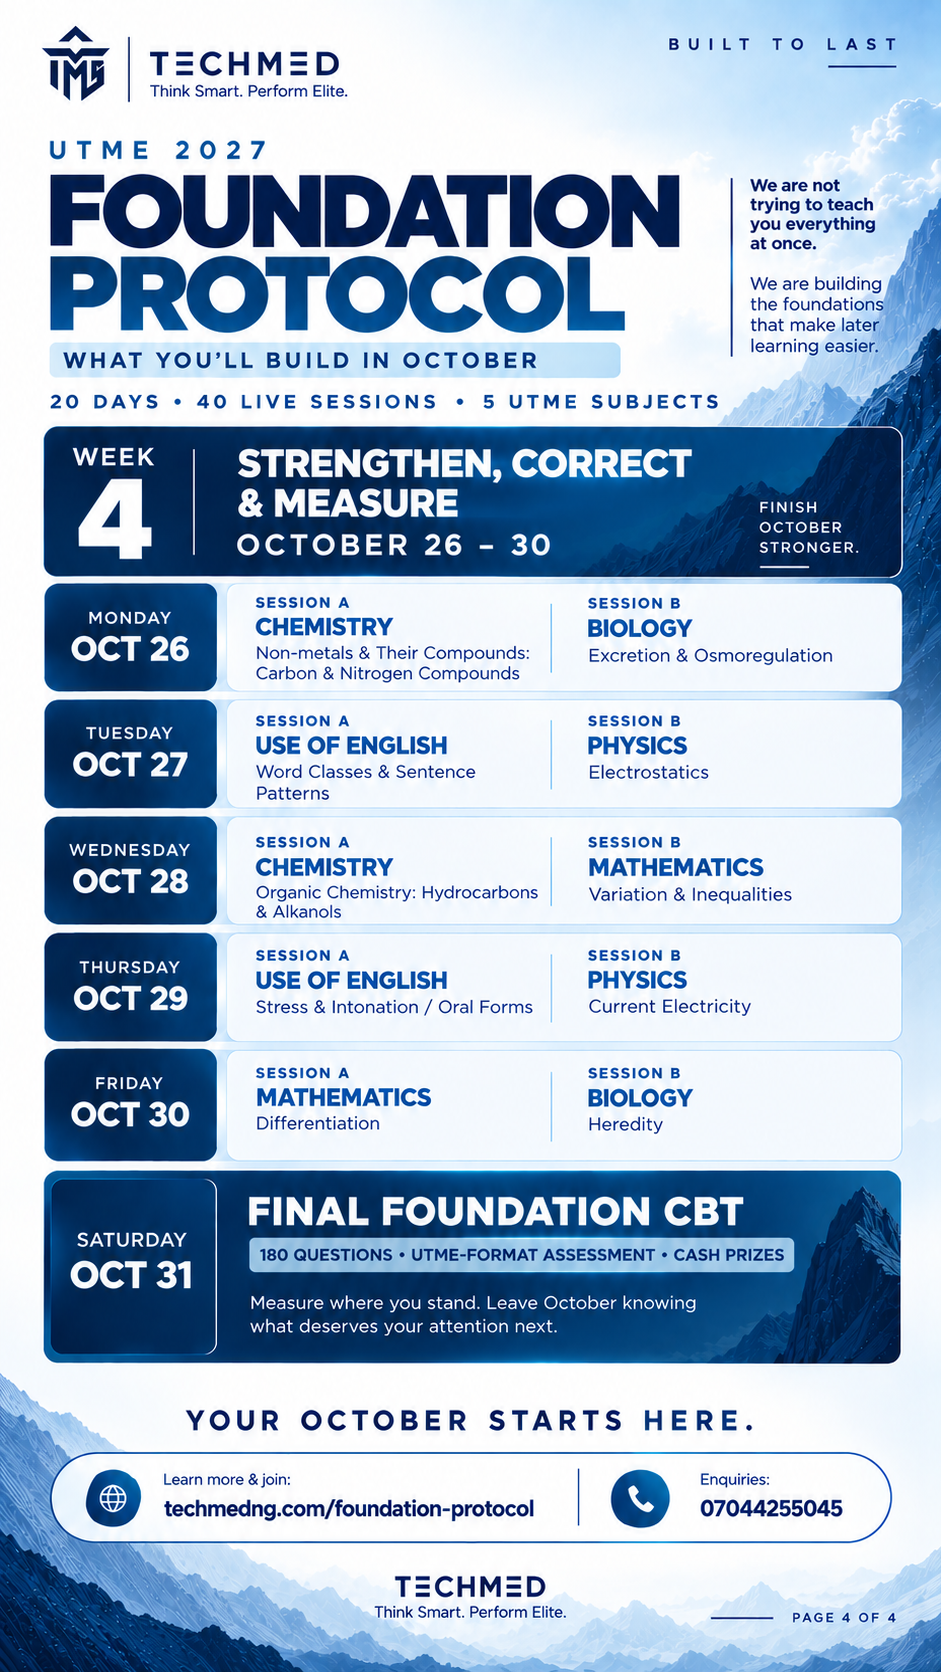
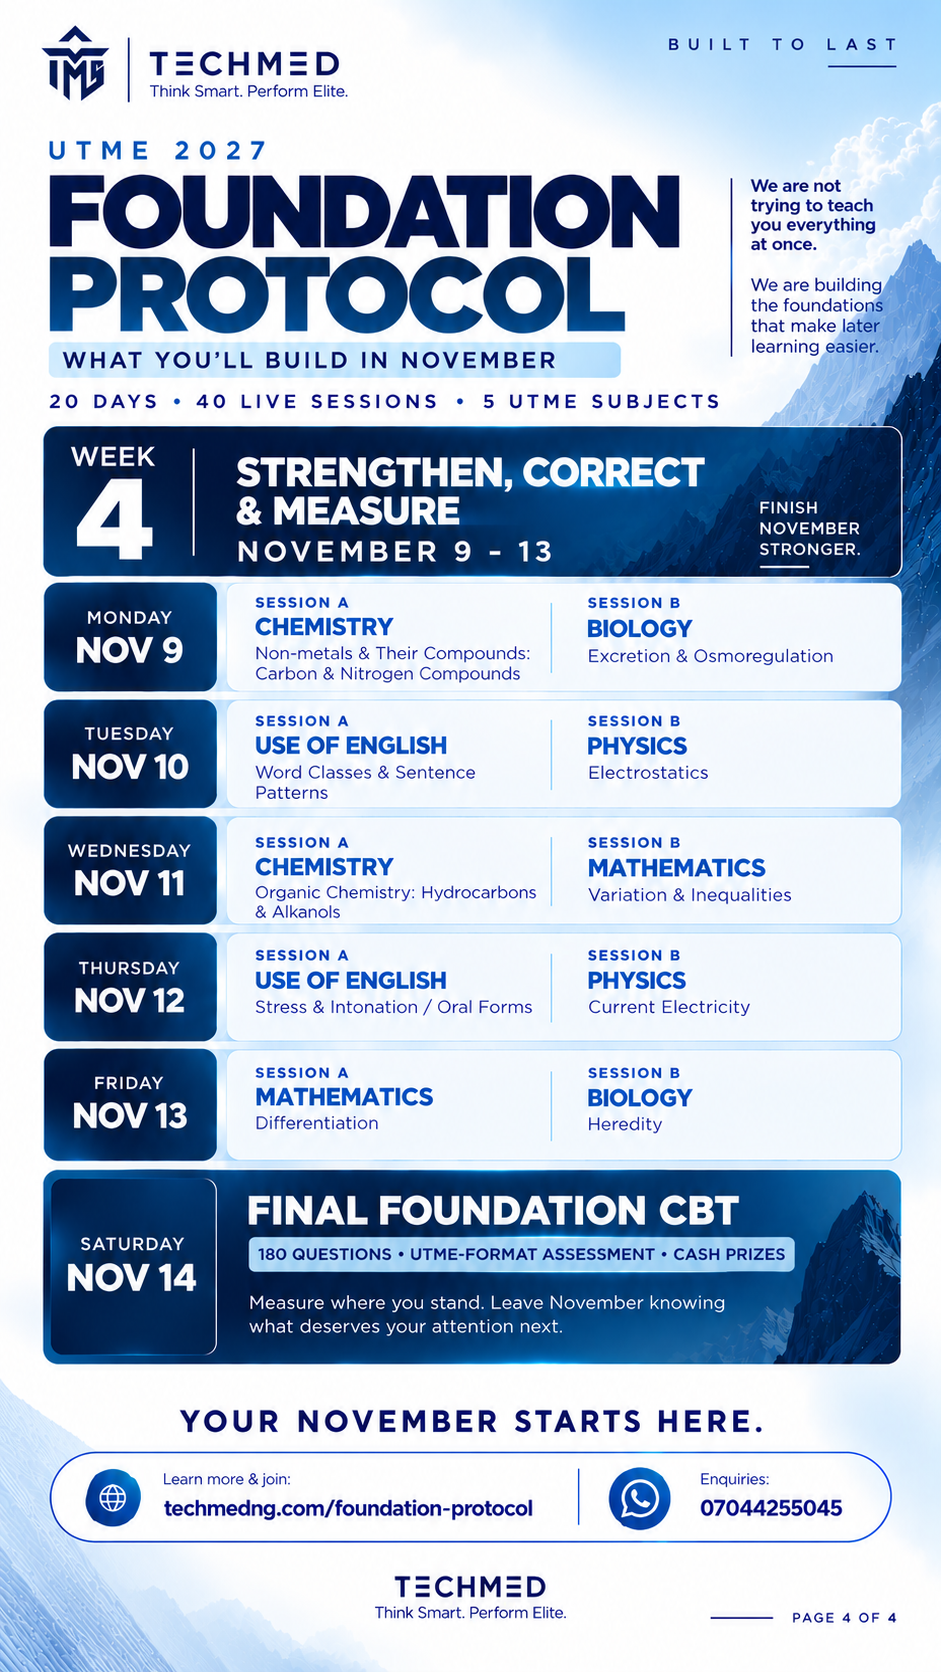
chore: update foundation protocol assets

diff --git a/web/src/lib/builders.ts b/web/src/lib/builders.ts
@@ -31,8 +31,8 @@ const FALLBACK_BUILDER_SETTINGS: BuilderSettings = {
   tutorialTitle: 'Free UTME 2027 Tutorials',
   tutorialDescription:
     'TECHMED is providing a free tutorial experience for UTME 2027 candidates. Full details are being finalized and will be shared with Builders as the season approaches.',
-  tutorialStartDate: '2026-10-05',
-  tutorialEndDate: '2026-11-09',
+  tutorialStartDate: '2026-10-16',
+  tutorialEndDate: '2026-11-14',
 };
 
 const BUILDER_SETTINGS_QUERY = `*[_id == "utmeBuilderSettings"][0]{
@@ -62,7 +62,7 @@ export async function getBuilderSettings(): Promise<BuilderSettings> {
   };
 }
 
-// "5 October" / "9 November 2026" — only includes the year on the end date
+// "16 October" / "14 November 2026" — only includes the year on the end date
 // when the two dates fall in different years, so the common case (a
 // tutorial season inside one year) doesn't repeat itself.
 export function formatDateRange(startISO?: string, endISO?: string): string | undefined {
